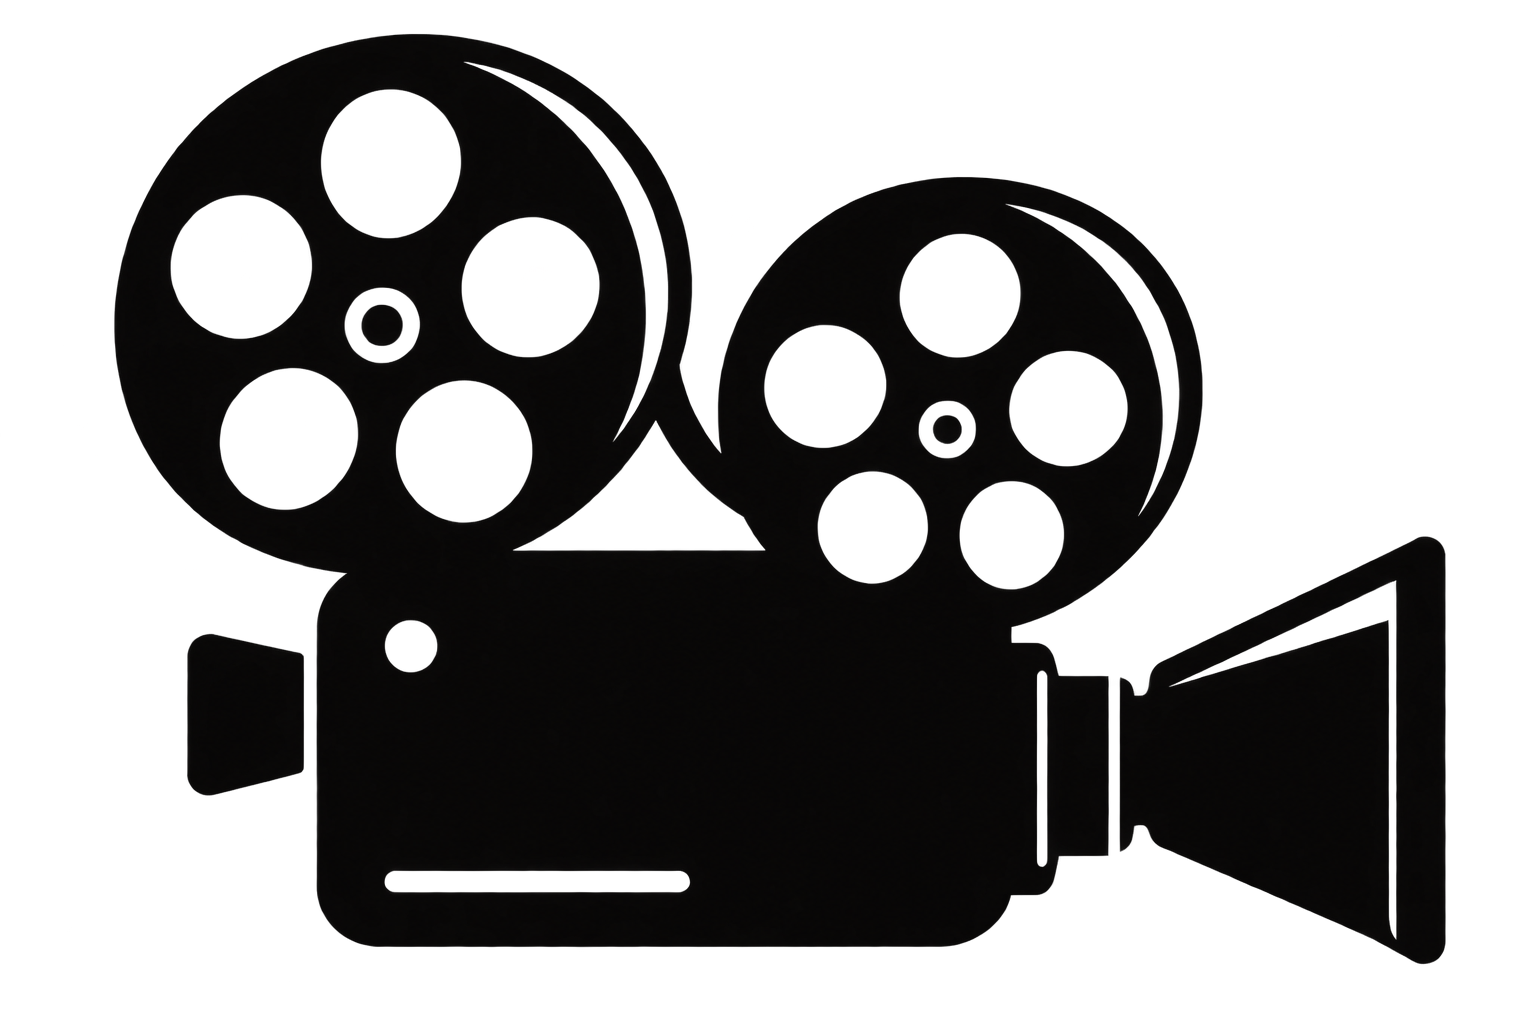
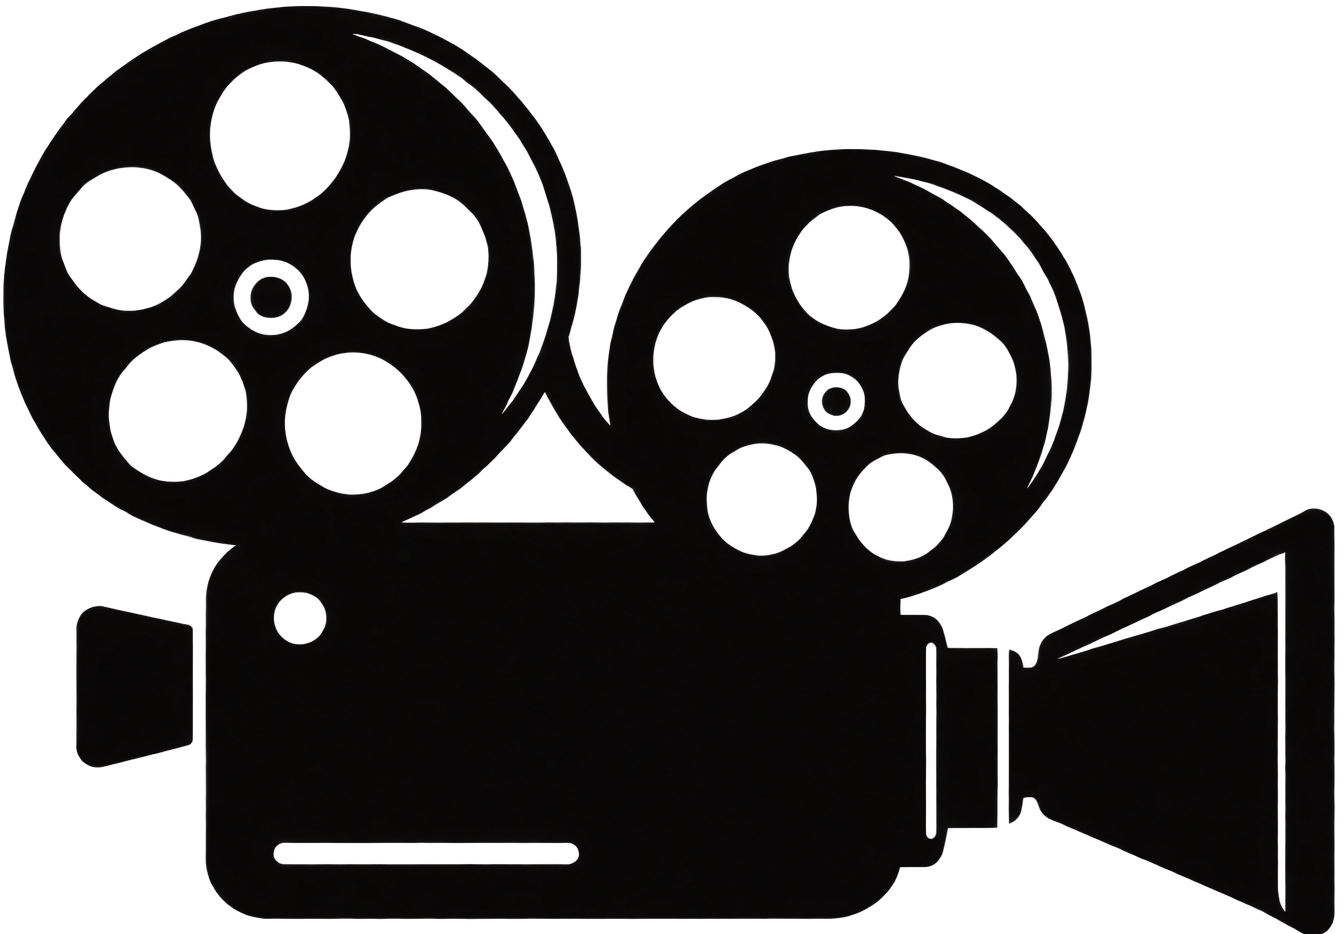
fix

Changed region(s): [[0.0, 0.0, 1.0, 1.0], [0.5495, 0.3105, 0.58, 0.3415]]

diff --git a/index.html b/index.html
@@ -4,7 +4,7 @@
     <meta charset="utf-8" />
     <meta name="viewport" content="width=device-width, initial-scale=1" />
     <meta name="robots" content="noindex, nofollow" />
-    <title>Movie collector</title>
+    <title>CineQueue</title>
     <meta
       name="description"
       content="Search TMDB and collect movies into ordered lists."
@@ -53,11 +53,11 @@
               class="header-logo"
               src="images/projector.png"
               alt=""
-              width="48"
-              height="48"
+              width="64"
+              height="64"
             />
             <div class="header-titles">
-              <h1 class="header-title" id="header-title">Movie collector</h1>
+              <h1 class="header-title" id="header-title">CineQueue</h1>
               <h1 class="custom-list-view-title" id="custom-list-view-title" hidden></h1>
               <p class="header-subtitle" id="list-subtitle">Your movie lists</p>
             </div>
@@ -67,8 +67,8 @@
               type="button"
               id="discover-entry-btn"
               class="header-nav-btn header-nav-btn--icon"
-              aria-label="New releases"
-              title="New releases"
+              aria-label="Discover"
+              title="Discover"
             >
               <svg viewBox="0 0 20 20" width="16" height="16" fill="none" aria-hidden="true">
                 <path
@@ -185,7 +185,7 @@
           class="list-tabs"
           id="discover-tabs"
           role="tablist"
-          aria-label="New releases"
+          aria-label="Discover"
           hidden
         >
           <button

diff --git a/js/app-bundle.js b/js/app-bundle.js
@@ -8491,10 +8491,10 @@ function syncHeaderViewTitle() {
   customListViewTitleEl.hidden = true;
   headerTitleEl.hidden = false;
   if (isDiscoverActive()) {
-    headerTitleEl.textContent = "New releases";
+    headerTitleEl.textContent = "Discover";
     return;
   }
-  headerTitleEl.textContent = isCustomListIndexActive() ? "Your lists" : "Movie collector";
+  headerTitleEl.textContent = isCustomListIndexActive() ? "Lists" : "CineQueue";
 }
 
 function updateListHeader() {
@@ -11655,7 +11655,7 @@ function renderDiscoverEmptyState(count) {
   }
   emptyState.hidden = false;
   if (!hasTmdbAccess()) {
-    emptyState.innerHTML = `<strong>Add your TMDB token</strong>Open Settings and paste your TMDB API Read Access Token to browse new releases.`;
+    emptyState.innerHTML = `<strong>Add your TMDB token</strong>Open Settings and paste your TMDB API Read Access Token to use Discover.`;
     return;
   }
   if (discoverLoading) {

diff --git a/css/fonts.css b/css/fonts.css
@@ -1,5 +1,5 @@
 /**
- * Outfit — display / titles. Compact geometric sans with a bit of character.
- * DM Sans — UI, body, and long copy. Neutral and easy to read in small type.
+ * Big Shoulders Display — bold condensed brand wordmark.
+ * Outfit — display / titles. DM Sans — UI, body, and long copy.
  */
-@import url("https://fonts.googleapis.com/css2?family=DM+Sans:ital,opsz,wght@0,9..40,400;0,9..40,500;0,9..40,600;1,9..40,400&family=Outfit:wght@500;600;700&display=swap");
+@import url("https://fonts.googleapis.com/css2?family=Big+Shoulders+Display:opsz,wght@12..96,700;12..96,800&family=DM+Sans:ital,opsz,wght@0,9..40,400;0,9..40,500;0,9..40,600;1,9..40,400&family=Outfit:wght@500;600;700&display=swap");

diff --git a/css/header.css b/css/header.css
@@ -25,8 +25,8 @@ header {
 }
 
 .header-logo {
-  width: 3rem;
-  height: 3rem;
+  width: 4rem;
+  height: 4rem;
   flex-shrink: 0;
   display: block;
   border-radius: 4px;
@@ -42,10 +42,12 @@ header {
 
 .header-title {
   margin: 0;
-  font-family: var(--display-font);
-  font-size: clamp(1.35rem, 3.5vw, 1.75rem);
-  font-weight: 700;
-  letter-spacing: 0.02em;
+  font-family: var(--brand-font);
+  font-size: clamp(1.65rem, 4.5vw, 2.35rem);
+  font-weight: 800;
+  letter-spacing: 0.05em;
+  line-height: 0.95;
+  text-transform: uppercase;
 }
 
 .custom-list-view-title {

diff --git a/js/app/05-render.js b/js/app/05-render.js
@@ -572,10 +572,10 @@ function syncHeaderViewTitle() {
   customListViewTitleEl.hidden = true;
   headerTitleEl.hidden = false;
   if (isDiscoverActive()) {
-    headerTitleEl.textContent = "New releases";
+    headerTitleEl.textContent = "Discover";
     return;
   }
-  headerTitleEl.textContent = isCustomListIndexActive() ? "Your lists" : "Movie collector";
+  headerTitleEl.textContent = isCustomListIndexActive() ? "Lists" : "CineQueue";
 }
 
 function updateListHeader() {

diff --git a/js/app/11-discover.js b/js/app/11-discover.js
@@ -78,7 +78,7 @@ function renderDiscoverEmptyState(count) {
   }
   emptyState.hidden = false;
   if (!hasTmdbAccess()) {
-    emptyState.innerHTML = `<strong>Add your TMDB token</strong>Open Settings and paste your TMDB API Read Access Token to browse new releases.`;
+    emptyState.innerHTML = `<strong>Add your TMDB token</strong>Open Settings and paste your TMDB API Read Access Token to use Discover.`;
     return;
   }
   if (discoverLoading) {

diff --git a/css/mobile.css b/css/mobile.css
@@ -13,12 +13,13 @@
   }
 
   .header-logo {
-    width: 2.65rem;
-    height: 2.65rem;
+    width: 3.5rem;
+    height: 3.5rem;
   }
 
   .header-title {
-    font-size: 1.2rem;
+    font-size: 1.45rem;
+    letter-spacing: 0.04em;
   }
 
   .header-subtitle {

diff --git a/css/variables.css b/css/variables.css
@@ -31,6 +31,7 @@
     "Segoe UI", Roboto, "Helvetica Neue", Arial, sans-serif;
   --display-font:
     "Outfit", var(--ui-font);
+  --brand-font: "Big Shoulders Display", "Arial Narrow", sans-serif;
   --body-font: var(--ui-font);
 
   --radius: 12px;

diff --git a/server.js b/server.js
@@ -29,5 +29,5 @@ app.use(
 );
 
 app.listen(PORT, () => {
-  console.log(`Movie collector running at http://localhost:${PORT}`);
+  console.log(`CineQueue running at http://localhost:${PORT}`);
 });

diff --git a/README.md b/README.md
@@ -1,4 +1,4 @@
-# Movie collector
+# CineQueue
 
 Search [TMDB](https://www.themoviedb.org/), add movies to ordered lists, and browse them as a cover grid or a detail-style layout. No account and no backend — your lists live in the browser, with optional sync to a private GitHub Gist.
 
@@ -47,7 +47,7 @@ There is no header search box. Tap **+ Add a movie** (floating button, or the em
 
 When you are viewing a custom list (`#lists/{id}`), the add dialog can also **Add from watched** — a multi-select picker of Watched movies not already on that list.
 
-On the collection view, the sparkle button beside **Lists** opens **New releases** (`#discover/upcoming`, `#discover/upcoming/2`, `#discover/now-playing`, etc.): each tab queries TMDB **`/discover/movie`** with US theatrical release filters (~20 titles per page). **Upcoming** uses US theatrical `release_date` and matching **primary** premiere from today through **~4 weeks** ahead (new releases only — no re-releases), sorted by **popularity** (no vote minimum, since unreleased titles rarely have votes yet). **Now playing** uses US theatrical dates from the last **~12 weeks** through today, requires a primary premiere in the same window (new only), `vote_count.gte=10`, sorted by popularity. Page lists may differ slightly from [the TMDB website’s shortcut lists](https://www.themoviedb.org/movie/upcoming) because those use fixed internal date ranges. Discover uses a fixed **4-column** grid (**2** on mobile). Non-final pages trim to a count divisible by **4** so both layouts stay full rows. The last page keeps whatever remains. Use **Previous** / **Next** in the toolbar to paginate either tab. The list response seeds cards immediately (title, release date, poster path); full movie details load only when you open a title. Posters lazy-load in the grid with a small concurrency cap. Those movies are not stored until you add them from the detail overlay. In discover detail, **Watchlist** (and **Watched** on Now playing) with the same list icons as Add movie live in the bottom bar. The detail **Lists** editor is for custom lists only. Ratings and viewing history are not available in discover.
+On the collection view, the sparkle button beside **Lists** opens **Discover** (`#discover/upcoming`, `#discover/upcoming/2`, `#discover/now-playing`, etc.): each tab queries TMDB **`/discover/movie`** with US theatrical release filters (~20 titles per page). **Upcoming** uses US theatrical `release_date` and matching **primary** premiere from today through **~4 weeks** ahead (new releases only — no re-releases), sorted by **popularity** (no vote minimum, since unreleased titles rarely have votes yet). **Now playing** uses US theatrical dates from the last **~12 weeks** through today, requires a primary premiere in the same window (new only), `vote_count.gte=10`, sorted by popularity. Page lists may differ slightly from [the TMDB website’s shortcut lists](https://www.themoviedb.org/movie/upcoming) because those use fixed internal date ranges. Discover uses a fixed **4-column** grid (**2** on mobile). Non-final pages trim to a count divisible by **4** so both layouts stay full rows. The last page keeps whatever remains. Use **Previous** / **Next** in the toolbar to paginate either tab. The list response seeds cards immediately (title, release date, poster path); full movie details load only when you open a title. Posters lazy-load in the grid with a small concurrency cap. Those movies are not stored until you add them from the detail overlay. In discover detail, **Watchlist** (and **Watched** on Now playing) with the same list icons as Add movie live in the bottom bar. The detail **Lists** editor is for custom lists only. Ratings and viewing history are not available in discover.
 
 ### Browsing lists
 
